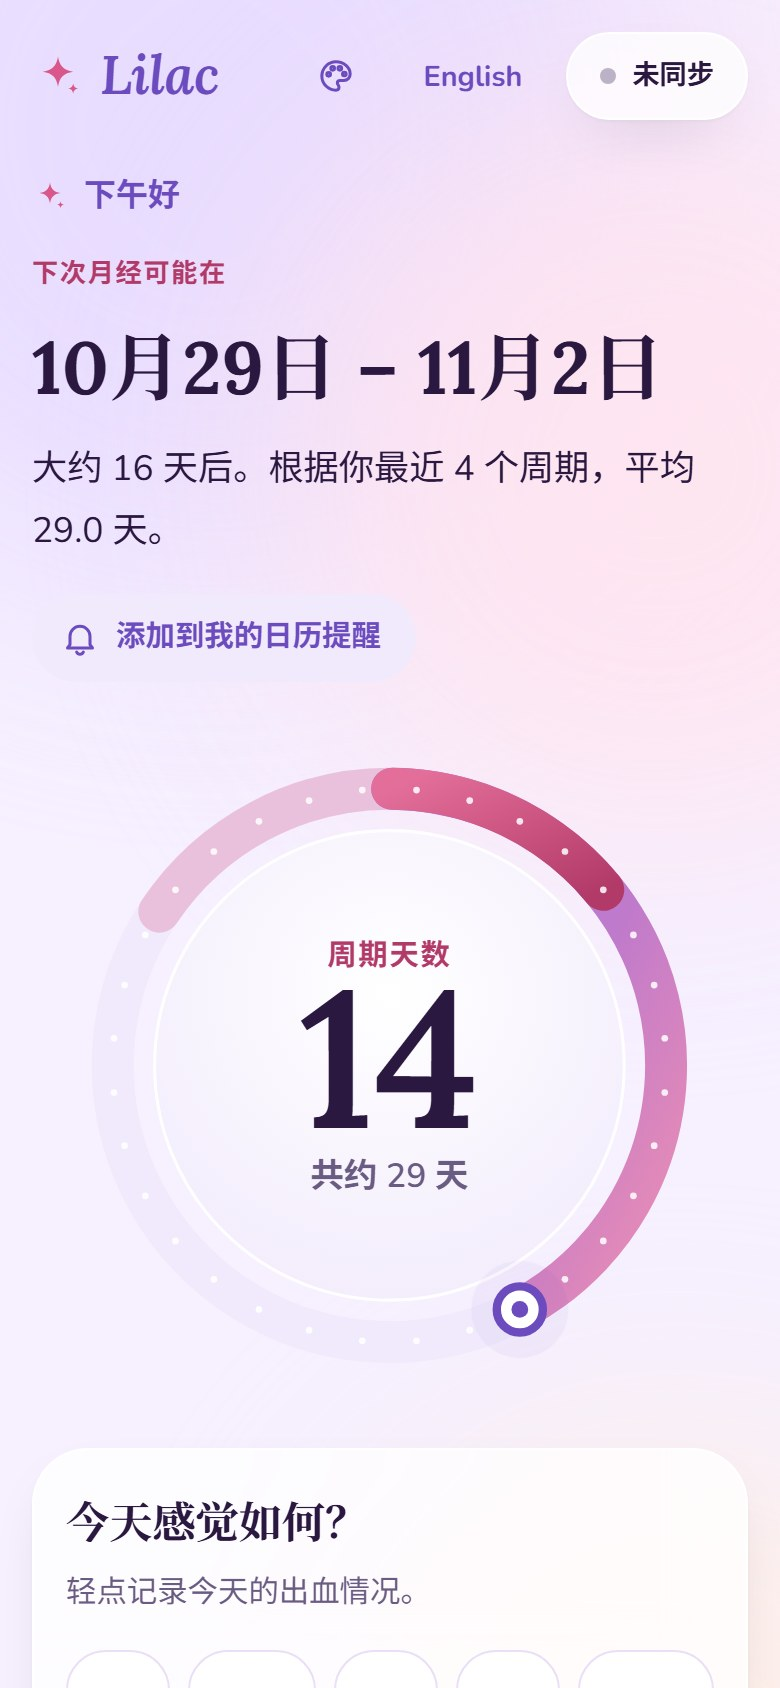
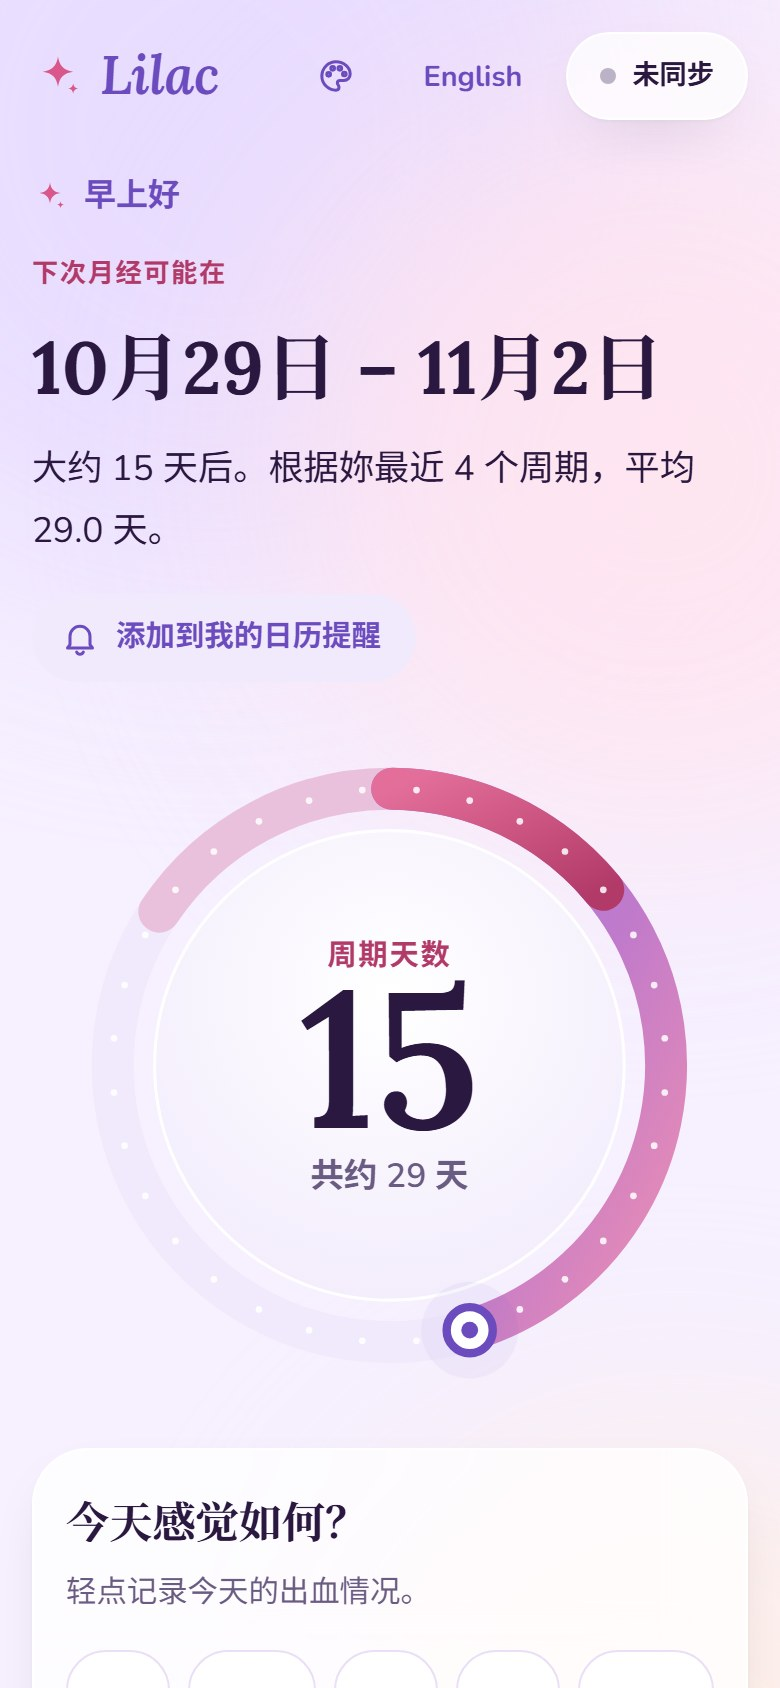
Chinese: address the reader as 妳 instead of 你

diff --git a/public/js/i18n.js b/public/js/i18n.js
@@ -211,7 +211,7 @@ Lilac.i18n = (() => {
     "lang.switchLabel": "Switch to English",
     "skip": "跳到主要内容",
     "storage.local": "仅保存在此设备上",
-    "storage.synced": "已同步到你的账户",
+    "storage.synced": "已同步到妳的账户",
     "logToday": "记录今天",
 
     "theme.title": "外观",
@@ -219,8 +219,8 @@ Lilac.i18n = (() => {
     "theme.lilac": "丁香紫", "theme.rose": "玫瑰", "theme.peach": "蜜桃", "theme.mint": "薄荷", "theme.ocean": "海洋",
     "theme.mode": "浅色或深色",
     "theme.auto": "跟随设备", "theme.light": "浅色", "theme.dark": "深色",
-    "theme.synced": "已保存到你的账户，其他设备也会一起切换。",
-    "theme.local": "已保存在此设备上。登录后可同步到你的其他设备。",
+    "theme.synced": "已保存到妳的账户，其他设备也会一起切换。",
+    "theme.local": "已保存在此设备上。登录后可同步到妳的其他设备。",
 
     "greet.morning": (v) => (v.name ? `早上好，${v.name}` : "早上好"),
     "greet.afternoon": (v) => (v.name ? `下午好，${v.name}` : "下午好"),
@@ -245,7 +245,7 @@ Lilac.i18n = (() => {
     "remind.button": "添加到我的日历提醒",
     "remind.done": "打开下载的文件，即可添加到日历",
     "ics.summary": "Lilac：月经可能快来了",
-    "ics.description": (v) => `Lilac 预计你的下次月经在 ${v.from} 至 ${v.to} 之间。`,
+    "ics.description": (v) => `Lilac 预计妳的下次月经在 ${v.from} 至 ${v.to} 之间。`,
 
     "dial.eyebrow": "周期天数",
     "dial.of": (v) => `共约 ${v.n} 天`,
@@ -254,14 +254,14 @@ Lilac.i18n = (() => {
     "dial.label": (v) => `周期第 ${v.day} 天，共约 ${v.n} 天。预计下次月经 ${v.from} 至 ${v.to}。`,
     "dial.labelEmpty": "尚未记录任何月经。",
     "status.welcome": "欢迎",
-    "status.welcomeHeadline": "你上一次月经是哪天开始的？",
-    "status.welcomeLede": "记录下来，Lilac 就会预测你的下一次月经。",
+    "status.welcomeHeadline": "妳上一次月经是哪天开始的？",
+    "status.welcomeLede": "记录下来，Lilac 就会预测妳的下一次月经。",
     "status.chooseStart": "选择开始日期",
-    "status.basisHistory": (v) => `根据你最近 ${v.n} 个周期，平均 ${v.avg} 天。`,
-    "status.basisDefault": "在你记录第二次月经之前，按常见的 28 天周期估算。",
+    "status.basisHistory": (v) => `根据妳最近 ${v.n} 个周期，平均 ${v.avg} 天。`,
+    "status.basisDefault": "在妳记录第二次月经之前，按常见的 28 天周期估算。",
     "status.period": "经期中",
     "status.periodHeadline": (v) => `经期第 ${v.n} 天`,
-    "status.periodLede": (v) => `你的经期通常持续约 ${v.n} 天。下次可能在 ${v.range}。`,
+    "status.periodLede": (v) => `妳的经期通常持续约 ${v.n} 天。下次可能在 ${v.range}。`,
     "status.late": "比预计晚",
     "status.lateHeadline": (v) => `已超出预计 ${v.n} 天`,
     "status.lateLede": (v) => `预计时间是 ${v.range}。如果已经来了，请在日历上点选那一天。`,
@@ -281,15 +281,15 @@ Lilac.i18n = (() => {
     "legend.today": "今天",
     "cal.hint": "点选日期，记录出血量、疼痛和症状。",
 
-    "guide.heading": "给你的建议",
+    "guide.heading": "给妳的建议",
     "guide.flag": "建议咨询医生",
     "guide.source": (v) => `来源（英文）：${v.label}`,
 
-    "history.heading": "你的周期",
+    "history.heading": "妳的周期",
     "history.key": "阴影区间：21–35 天，即 NHS 所说的规律范围",
     "history.days": (v) => `${v.n} 天`,
     "history.period": (v) => `经期 ${v.n} 天`,
-    "history.waiting": "下次月经开始后，你的第一个完整周期会显示在这里。",
+    "history.waiting": "下次月经开始后，妳的第一个完整周期会显示在这里。",
     "history.empty": "记录两次月经后，周期会显示在这里。",
 
     "foot.disclaimer": "Lilac 提供的是来自英国国民保健署（NHS）和已发表研究的一般信息。它不能做任何诊断，预测结果也不能用作避孕。如果感觉不对劲，请咨询医生。",
@@ -314,11 +314,11 @@ Lilac.i18n = (() => {
     "day.clear": "清除这一天",
     "day.save": "保存",
 
-    "alert.saveFailed": "此浏览器不允许 Lilac 保存数据。关闭页面后，你的记录会丢失。请检查是否允许本网站保存数据。",
+    "alert.saveFailed": "此浏览器不允许 Lilac 保存数据。关闭页面后，妳的记录会丢失。请检查是否允许本网站保存数据。",
     "confirm.import": "导入会替换 Lilac 中现有的所有记录。要继续吗？",
     "alert.importFailed": "无法导入该文件，它不包含 Lilac 数据。",
-    "confirm.wipeSynced": "要删除你记录的所有日子吗？此设备和所有已同步的设备上都会删除，且无法恢复。如需保留副本，请先导出数据。",
-    "confirm.wipe": "要删除你记录的所有日子吗？此操作无法恢复。如需保留副本，请先导出数据。",
+    "confirm.wipeSynced": "要删除妳记录的所有日子吗？此设备和所有已同步的设备上都会删除，且无法恢复。如需保留副本，请先导出数据。",
+    "confirm.wipe": "要删除妳记录的所有日子吗？此操作无法恢复。如需保留副本，请先导出数据。",
 
     "g.welcome.t": "从最近一次月经开始",
     "g.welcome.b": "在日历上点选开始的那一天并设定出血量，接下来几天也照样记录。记录一次月经后就会显示预测。",
@@ -327,33 +327,33 @@ Lilac.i18n = (() => {
     "g.irregular.b": "NHS 将月经间隔少于 21 天或超过 35 天视为不规律。如果月经不规律，或平时的规律有变化，请去看医生。如果间隔很长只是因为漏记了，可以忽略这条。",
     "g.long.t": (v) => `有一次经期持续了 ${v.n} 天`,
     "g.long.b": "NHS 建议，如果经期超过 7 天，请去看医生。",
-    "g.heavy.t": "你记录了经血过多的迹象",
-    "g.heavy.b": "NHS 列出的迹象包括：每 1 到 2 小时就要换卫生巾或卫生棉条、排出大于约 2.5 厘米的血块、经血渗到衣服或床单上，以及经常感到疲倦或气短。如果经血过多影响到你的生活，或已经持续一段时间，请去看医生。",
+    "g.heavy.t": "妳记录了经血过多的迹象",
+    "g.heavy.b": "NHS 列出的迹象包括：每 1 到 2 小时就要换卫生巾或卫生棉条、排出大于约 2.5 厘米的血块、经血渗到衣服或床单上，以及经常感到疲倦或气短。如果经血过多影响到妳的生活，或已经持续一段时间，请去看医生。",
     "g.painUrgent.t": "严重疼痛，止痛药无效",
     "g.painUrgent.b": "NHS 建议：如果经痛严重或比平时更痛，而且止痛药没有帮助，请尽快预约看医生，或联系当地的医疗咨询热线（在英国是 NHS 111）。",
-    "g.pain.t": "你记录了严重疼痛",
-    "g.pain.b": "如果经痛影响你的日常活动，或月经变得比以前更痛，请去看医生。如果疼痛严重或比平时更痛，而止痛药没有帮助，NHS 建议尽快就医。",
+    "g.pain.t": "妳记录了严重疼痛",
+    "g.pain.b": "如果经痛影响妳的日常活动，或月经变得比以前更痛，请去看医生。如果疼痛严重或比平时更痛，而止痛药没有帮助，NHS 建议尽快就医。",
     "g.between.t": "两次月经之间出血",
-    "g.between.b": "你在经期以外记录了点滴出血。NHS 指出，两次月经之间或性行为后出血，需要由医生检查。",
+    "g.between.b": "妳在经期以外记录了点滴出血。NHS 指出，两次月经之间或性行为后出血，需要由医生检查。",
     "g.missed3.t": "大约三个周期没有来月经",
     "g.missed3.b": "NHS 建议，如果连续 3 次没来月经，请去看医生。如果有可能怀孕，请先验孕。",
     "g.late.t": (v) => `月经比预计晚了 ${v.n} 天`,
-    "g.late.b": "NHS 列出的常见原因包括：怀孕、压力、体重快速下降、运动过度、某些激素避孕方法，以及开始进入更年期。如果你有可能怀孕，验孕是最快的确认方法。如果只是还没记录，请点选月经开始的那一天。",
+    "g.late.b": "NHS 列出的常见原因包括：怀孕、压力、体重快速下降、运动过度、某些激素避孕方法，以及开始进入更年期。如果妳有可能怀孕，验孕是最快的确认方法。如果只是还没记录，请点选月经开始的那一天。",
     "g.easePain.t": "缓解经痛",
     "g.easePain.b": "NHS 建议的方法：洗个热水澡；用毛巾包好热敷袋或热水袋，敷在肚子上；做些温和的运动，例如散步、游泳或瑜伽；服用扑热息痛（paracetamol）或布洛芬（ibuprofen）等止痛药。",
     "g.tss.t": "使用卫生棉条或月经杯",
-    "g.tss.b": "请按照包装说明使用，不要放置超过需要的时间。中毒性休克综合征很少见，但很严重。如果出现高烧或发冷、肌肉酸痛、皮疹或类似流感的症状，请取出卫生棉条或月经杯并立即就医，并告诉医生你在使用它。",
+    "g.tss.b": "请按照包装说明使用，不要放置超过需要的时间。中毒性休克综合征很少见，但很严重。如果出现高烧或发冷、肌肉酸痛、皮疹或类似流感的症状，请取出卫生棉条或月经杯并立即就医，并告诉医生妳在使用它。",
     "g.pms.t": "经前一周",
     "g.pms.b": "对于经前综合征（PMS），NHS 建议：规律运动、每 2 到 3 小时吃一顿小餐、充足睡眠，以及通过瑜伽或冥想等方式减压。如果症状影响日常生活，请去看医生。",
-    "g.diary.t": "你的症状记录对医生很有用",
+    "g.diary.t": "妳的症状记录对医生很有用",
     "g.diary.b": "NHS 建议记录至少 2 个月经周期的症状日记，并在看诊时带上。可用页面底部的“导出数据”来分享。",
     "g.sharper.t": "记录越多，预测越准",
-    "g.sharper.history": (v) => `这次预测用了 ${v.n} 个周期。记录满 3 个周期后，预测范围会按你自己的变化幅度收窄。很少有人像时钟一样准：一项涵盖 612,613 个周期的研究中，只有 13% 恰好是 28 天。`,
-    "g.sharper.default": "在你记录两次月经之前，Lilac 先假设周期为 28 天。一项涵盖 612,613 个周期的研究中，平均周期为 29.3 天，只有 13% 恰好是 28 天，所以你自己的数据很快就会更准。",
+    "g.sharper.history": (v) => `这次预测用了 ${v.n} 个周期。记录满 3 个周期后，预测范围会按妳自己的变化幅度收窄。很少有人像时钟一样准：一项涵盖 612,613 个周期的研究中，只有 13% 恰好是 28 天。`,
+    "g.sharper.default": "在妳记录两次月经之前，Lilac 先假设周期为 28 天。一项涵盖 612,613 个周期的研究中，平均周期为 29.3 天，只有 13% 恰好是 28 天，所以妳自己的数据很快就会更准。",
 
     "sync.title": "多设备同步",
     "chip.off": "未同步", "chip.syncing": "同步中…", "chip.synced": "已同步", "chip.offline": "离线", "chip.error": "同步出错",
-    "sync.unconfigured1": "同步功能可让你在所有设备上使用同一份数据。它需要一个只有你能管理的免费 Supabase 项目。",
+    "sync.unconfigured1": "同步功能可让妳在所有设备上使用同一份数据。它需要一个只有妳能管理的免费 Supabase 项目。",
     "sync.unconfigured2": "项目建好后，把它的 URL 和 anon key 填入 js/config.js，再重新加载此页面。步骤见 README.md。",
     "sync.signInIntro": "登录后即可在多台设备间同步数据。",
     "sync.username": "用户名",
@@ -374,7 +374,7 @@ Lilac.i18n = (() => {
     "sync.justNow": "刚刚",
     "sync.minAgo": (v) => `${v.n} 分钟前`,
     "sync.signOut": "退出同步",
-    "sync.signOutConfirm": "要在此设备上退出同步吗？数据会保留在此设备上，但在你重新登录前不会同步更改。",
+    "sync.signOutConfirm": "要在此设备上退出同步吗？数据会保留在此设备上，但在妳重新登录前不会同步更改。",
     "sync.auto": "登录后会自动同步。",
     "err.username": "用户名须为 3–30 个字符，只能包含英文字母、数字、点、短横线或下划线。",
     "err.passwordShort": "密码至少需要 8 个字符。",
@@ -386,7 +386,7 @@ Lilac.i18n = (() => {
     "err.weakPassword": "密码太弱，请换一个更长或更不常见的密码。",
     "err.tables": "Lilac 的数据表还没建立。请在 Supabase 项目中运行 supabase/setup.sql。",
     "err.network": "无法连接 Supabase。如果 Lilac 已一周没用，免费项目可能已暂停，请在 Supabase 控制台中恢复。",
-    "err.offline": "你目前离线。更改已保存在此设备上，恢复联网后会自动同步。",
+    "err.offline": "妳目前离线。更改已保存在此设备上，恢复联网后会自动同步。",
     "err.library": "无法加载同步组件。请检查网络后重新加载。",
   };
 

diff --git a/public/index.html b/public/index.html
@@ -9,8 +9,8 @@
   <link rel="preconnect" href="https://fonts.googleapis.com">
   <link rel="preconnect" href="https://fonts.gstatic.com" crossorigin>
   <link href="https://fonts.googleapis.com/css2?family=Lora:ital,wght@0,400..700;1,400..700&family=Nunito:wght@400..800&family=Noto+Sans+SC:wght@400;500;700&family=Noto+Serif+SC:wght@500;700&display=swap" rel="stylesheet">
-  <link rel="stylesheet" href="css/styles.css?v=9">
-  <script src="js/theme.js?v=9"></script>
+  <link rel="stylesheet" href="css/styles.css?v=10">
+  <script src="js/theme.js?v=10"></script>
 </head>
 <body>
   <!-- Line icons (drawn here so they work offline and inherit text colour) -->
@@ -215,16 +215,16 @@
     <div id="sync-body" class="sync-body"></div>
   </dialog>
 
-  <script src="js/config.js?v=9"></script>
+  <script src="js/config.js?v=10"></script>
   <script src="https://cdn.jsdelivr.net/npm/@supabase/supabase-js@2.117.2/dist/umd/supabase.js"></script>
-  <script src="js/i18n.js?v=9"></script>
-  <script src="js/dates.js?v=9"></script>
-  <script src="js/store.js?v=9"></script>
-  <script src="js/cycle.js?v=9"></script>
-  <script src="js/guidance.js?v=9"></script>
-  <script src="js/sync.js?v=9"></script>
-  <script src="js/ui.js?v=9"></script>
-  <script src="js/sync-ui.js?v=9"></script>
-  <script src="js/theme-ui.js?v=9"></script>
+  <script src="js/i18n.js?v=10"></script>
+  <script src="js/dates.js?v=10"></script>
+  <script src="js/store.js?v=10"></script>
+  <script src="js/cycle.js?v=10"></script>
+  <script src="js/guidance.js?v=10"></script>
+  <script src="js/sync.js?v=10"></script>
+  <script src="js/ui.js?v=10"></script>
+  <script src="js/sync-ui.js?v=10"></script>
+  <script src="js/theme-ui.js?v=10"></script>
 </body>
 </html>
